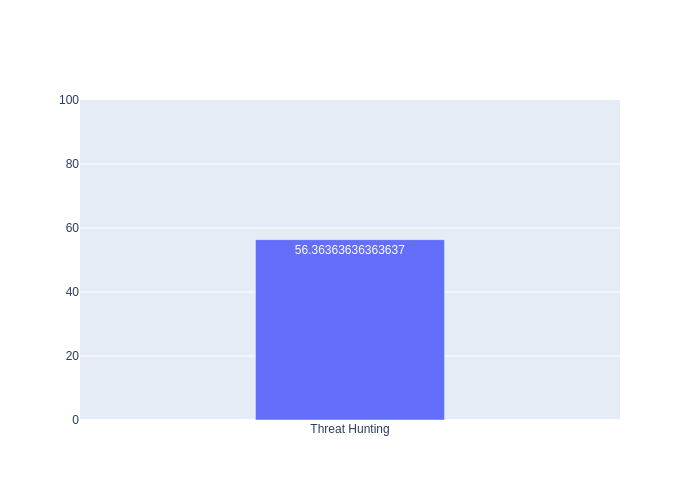
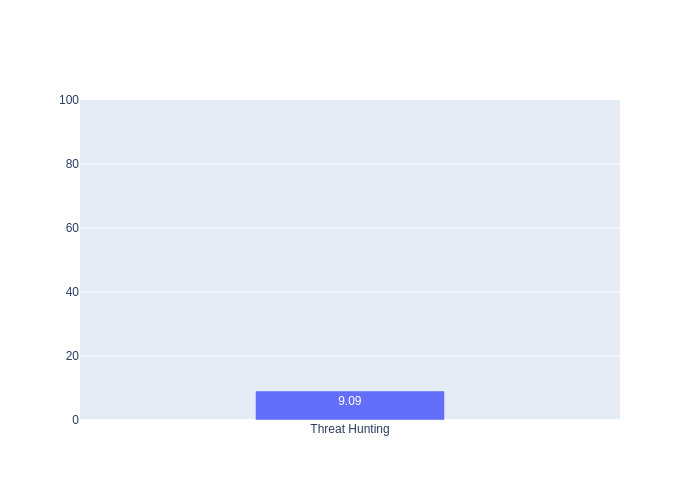
add results screen

Changed region(s): [[0.36, 0.48, 0.66, 0.81]]

diff --git a/ui/js/main.js b/ui/js/main.js
@@ -91,10 +91,14 @@ function surveySubmit() {
 
     surveySubmissionRequest.addEventListener("readystatechange", function () {
         if (this.readyState === 4) {
-
+            var jsonData = JSON.parse(this.response);
+            if (jsonData == "Success") {
+                showResults();
+            } else {
+                alert("An error occurred");
+            }
         }
     });
-
 
     surveySubmissionRequest.open("POST", "http://0.0.0.0:8000/submit");
     surveySubmissionRequest.setRequestHeader("Content-Type", "application/json");
@@ -102,4 +106,32 @@ function surveySubmit() {
     surveySubmissionRequest.setRequestHeader("password", sessionPassword);
     var data = JSON.stringify(inputData);
     surveySubmissionRequest.send(data);
+}
+
+function showResults() {
+    window.scrollTo(0, 0);
+    document.getElementById("submiteSurvey").style.display = "none";
+    document.getElementById("questionContainer").style.display = "none";
+    document.getElementById("editSurvey").style.display = "block";
+    document.getElementById("resultsContainer").style.display = "block";
+    document.getElementById("th_avg").src ="/../backend/generated_graph/average_Threat Hunting.png";
+    document.getElementById("th_sub").src ="../backend/generated_graph/sub_cat_average_for_Threat Hunting.png";
+    document.getElementById("th_q").src ="../backend/generated_graph/question_scores_for_Threat Hunting.png";
+    document.getElementById("vm_avg").src ="../backend/generated_graph/average_Vulnerability Management.png";
+    document.getElementById("vm_sub").src ="../backend/generated_graph/sub_cat_average_for_Vulnerability Management.png";
+    document.getElementById("vm_q").src ="../backend/generated_graph/question_scores_for_Vulnerability Management.png";
+}
+
+function editSurvey() {
+    window.scrollTo(0, 0);
+    document.getElementById("submiteSurvey").style.display = "block";
+    document.getElementById("questionContainer").style.display = "block";
+    document.getElementById("editSurvey").style.display = "none";
+    document.getElementById("resultsContainer").style.display = "none";
+    document.getElementById("th_avg").src ="";
+    document.getElementById("th_sub").src ="";
+    document.getElementById("th_q").src ="";
+    document.getElementById("vm_avg").src ="";
+    document.getElementById("vm_sub").src ="";
+    document.getElementById("vm_q").src ="";
 }

diff --git a/ui/questions.html b/ui/questions.html
@@ -24,10 +24,21 @@
             <div class="col-md-auto" id="questionContainer">
                 <button class="btn btn-primary margin" id="beginSurvey" onclick="beginSurvey();">Begin Survey</button>
             </div>
+            <div class="col-md-auto" id="resultsContainer" style="display: none;">
+                <h5 class="margin"> Threat Hunting</h5>
+                <img id="th_avg"/>
+                <img id="th_sub"/>
+                <img id="th_q"/>
+                <h5 class="margin">Vulnerability Management</h5>
+                <img id="vm_avg"/>
+                <img id="vm_sub"/>
+                <img id="vm_q"/>
+            </div>
         </div>
         <div class="row justify-content-md-center">
             <div class="col-md-auto">
                 <button class="btn btn-primary margin" style="display: none;" id="submiteSurvey" onclick="surveySubmit();">Submit</button>
+                <button class="btn btn-primary margin" style="display: none;" id="editSurvey" onclick="editSurvey();">Go back to edit</button>
             </div>
         </div>
     </div>

diff --git a/backend/main.py b/backend/main.py
@@ -55,7 +55,7 @@ async def fetch_questions(request: AuthRequest):
         return json.dumps([dict(iterator) for iterator in rows])
 
 @app.post("/submit")
-async def login(request: dict = Body(...), username: str = Header(None), password: str = Header(None)):
+async def submit_survey(request: dict = Body(...), username: str = Header(None), password: str = Header(None)):
     if (is_valid_user(username, password)):
         db_connection = sqlite3.connect('sqnx-db.db')
         db_cursor = db_connection.cursor()
@@ -67,19 +67,13 @@ async def login(request: dict = Body(...), username: str = Header(None), passwor
             db_cursor.execute("INSERT INTO Responses VALUES (?, ?, ?, ?)", (int(value), username, int(key), attempt))
             db_connection.commit()
         db_connection.close()
-
-def plot_category_average(attempt, username):
-    db_connection = sqlite3.connect('sqnx-db.db')
-    db_cursor = db_connection.cursor()
-    average = db_cursor.execute("SELECT AVG(questionResponse) FROM Responses WHERE username = (?) AND surveyAttemptNumber = (?)", (username, attempt)).fetchall()[0][0]
-    db_connection.close()
-    labels = ['Overall Average']
-    values = [average]
-    fig = go.Figure(data=[go.Bar(x=labels, y=values, text=values)])
-    fig.update_yaxes(range=list([0,100]))
-    fig.update_traces(width=0.35)
-    fig.show()
-    fig.write_image("generated_graph/average_overall.png")
+        plot_category_average("Threat Hunting", attempt, username)
+        plot_category_average("Vulnerability Management", attempt, username)
+        plot_sub_category_average("Threat Hunting", attempt, username)
+        plot_sub_category_average("Vulnerability Management", attempt, username)
+        plot_question_score("Threat Hunting", attempt, username)
+        plot_question_score("Vulnerability Management", attempt, username)
+        return "Success"
 
 def get_question_id(category, subcategory = None):
     db_connection = sqlite3.connect('sqnx-db.db')
@@ -141,3 +135,21 @@ def plot_sub_category_average(category, attempt, username):
     fig.update_yaxes(range=list([0,100]))
     fig.update_traces(width=0.35)
     fig.write_image("generated_graph/sub_cat_average_for_"+ category +".png")
+
+def plot_question_score(category, attempt, username):
+    labels = []
+    values = []
+    db_connection = sqlite3.connect('sqnx-db.db')
+    db_cursor = db_connection.cursor()
+    questionIdList = get_question_id(category)
+    for q_id in questionIdList:
+        response = db_cursor.execute("SELECT questionResponse FROM Responses WHERE username = (?) AND surveyAttemptNumber = (?) AND questionId = (?)", (username, attempt, q_id)).fetchall()
+        values.append(response[0][0])
+        quest = db_cursor.execute("SELECT questionText FROM Questions WHERE questionId = (?)", [q_id]).fetchall()
+        labels.append(quest[0][0])
+
+    db_connection.close()
+    fig = go.Figure(data=[go.Bar(y=labels, x=values, text=values, orientation='h')])
+    fig.update_xaxes(range=list([0,100]))
+    fig.update_traces(width=0.99)
+    fig.write_image("generated_graph/question_scores_for_"+ category +".png")
